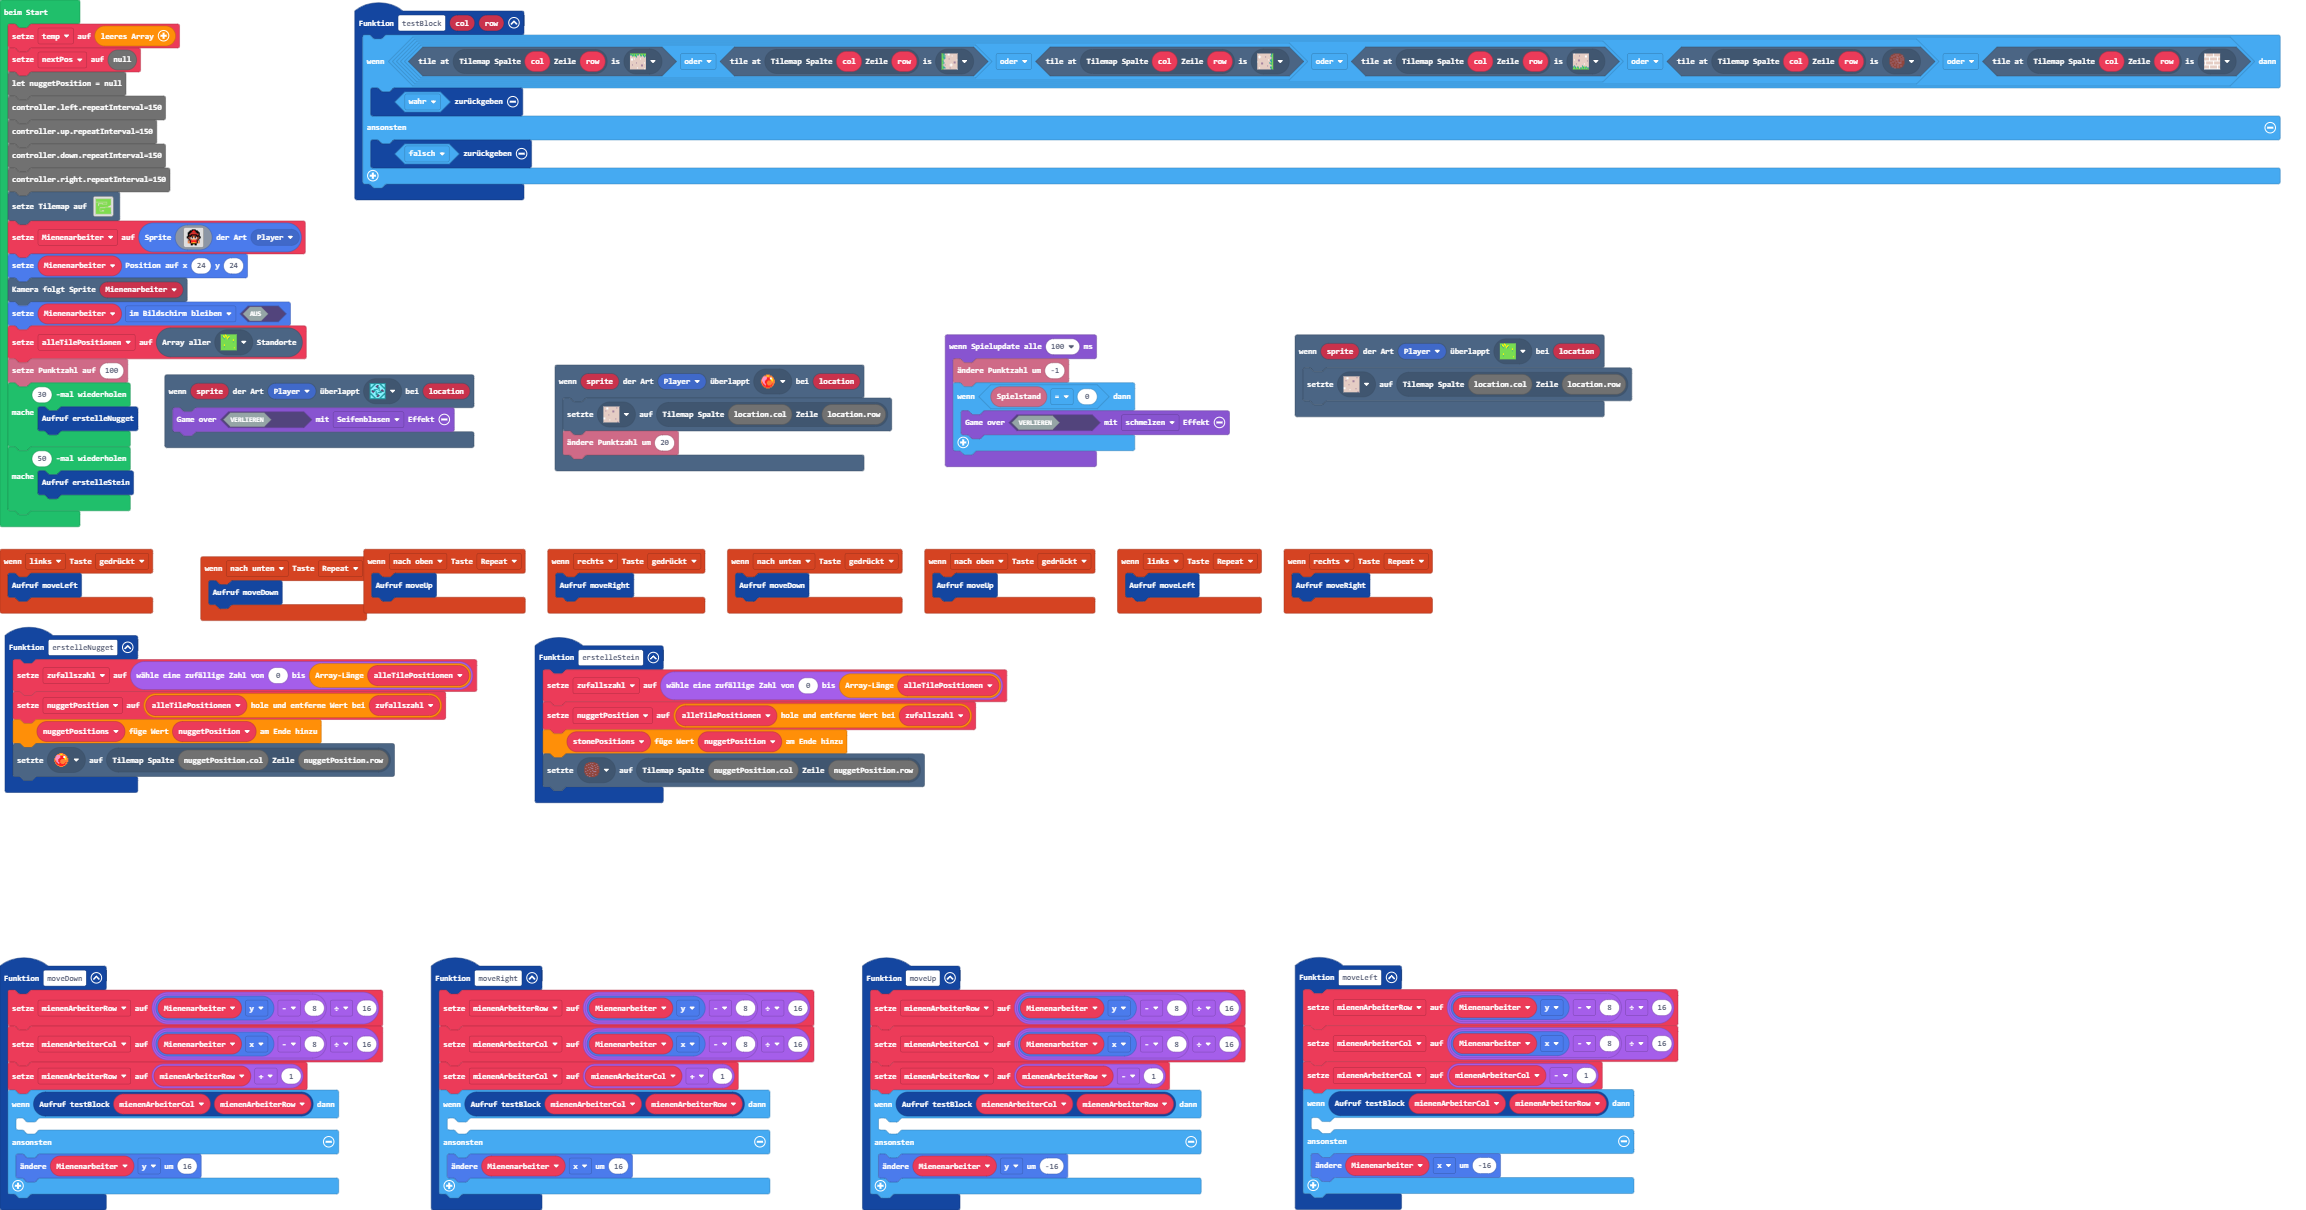
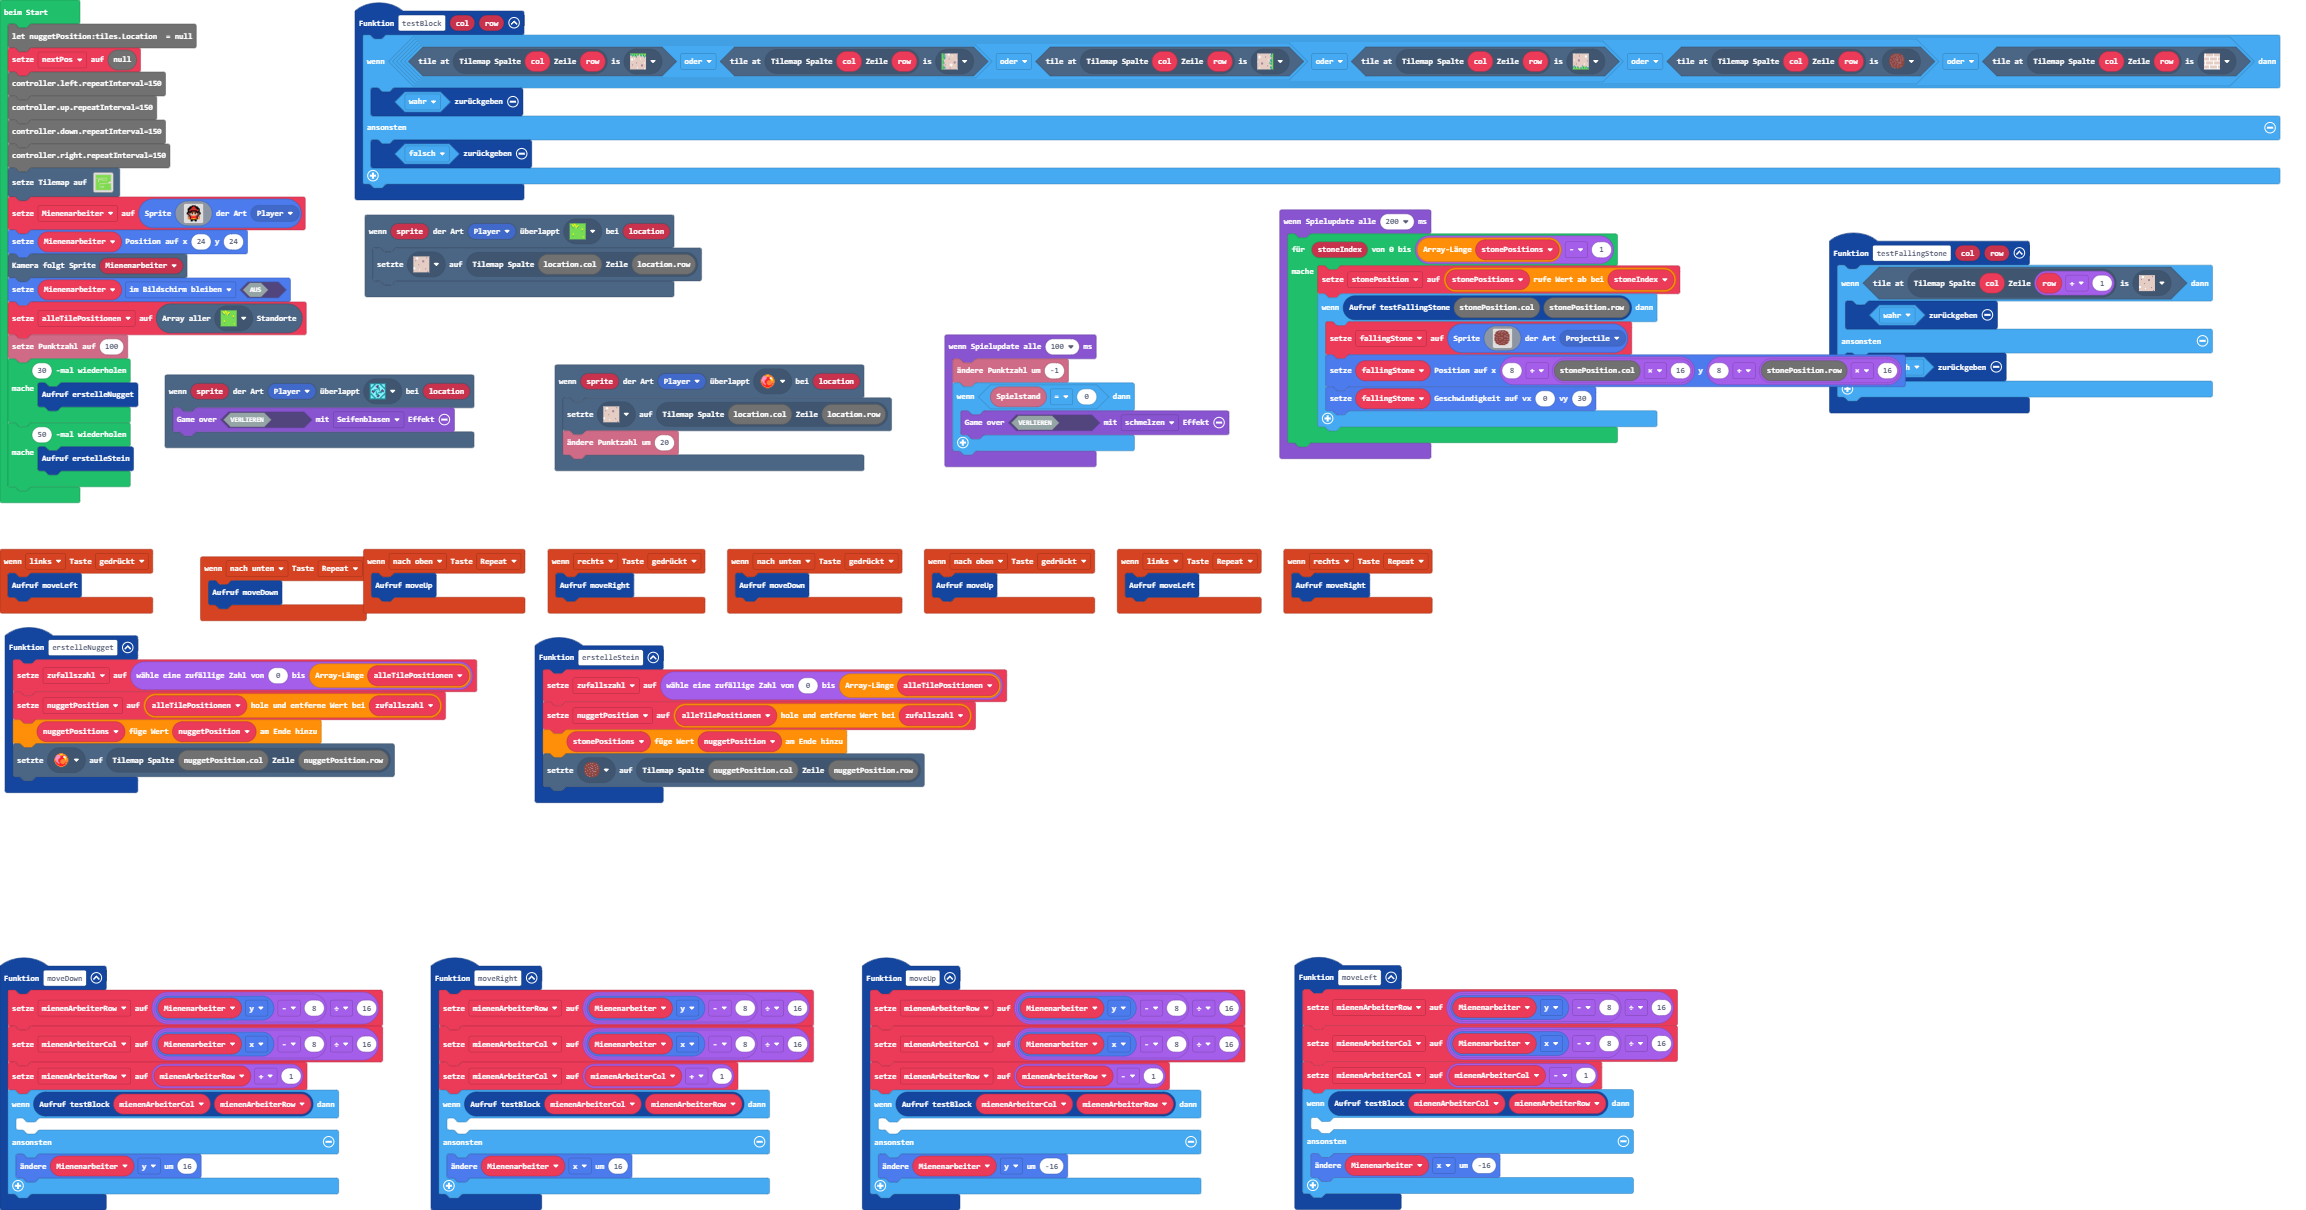
Added falling blocks

Changed region(s): [[0.5308, 0.1529, 0.9679, 0.3975], [0.0, 0.0, 0.3122, 0.4587], [0.562, 0.8868, 0.6557, 0.9174]]

diff --git a/main.ts b/main.ts
@@ -30,6 +30,13 @@ controller.up.onEvent(ControllerButtonEvent.Pressed, function () {
 controller.left.onEvent(ControllerButtonEvent.Pressed, function () {
     moveLeft()
 })
+function testFallingStone (col: number, row: number) {
+    if (tiles.tileAtLocationEquals(tiles.getTileLocation(col, row + 1), sprites.castle.tilePath5)) {
+        return true
+    } else {
+        return false
+    }
+}
 controller.up.onEvent(ControllerButtonEvent.Repeated, function () {
     moveUp()
 })
@@ -53,7 +60,6 @@ controller.left.onEvent(ControllerButtonEvent.Repeated, function () {
     moveLeft()
 })
 function erstelleStein () {
-    let stonePositions: tiles.Location[] = []
     zufallszahl = randint(0, alleTilePositionen.length)
     nuggetPosition = alleTilePositionen.removeAt(zufallszahl)
     stonePositions.push(nuggetPosition)
@@ -96,14 +102,17 @@ function moveLeft () {
 scene.onOverlapTile(SpriteKind.Player, sprites.dungeon.collectibleInsignia, function (sprite, location) {
     game.over(false, effects.bubbles)
 })
+let fallingStone: Sprite = null
+let stonePosition: tiles.Location = null
+let stonePositions: tiles.Location[] = []
+let fallingStones: Sprite[]=[]
 let zufallszahl = 0
 let mienenArbeiterCol = 0
 let mienenArbeiterRow = 0
 let alleTilePositionen: tiles.Location[] = []
 let Mienenarbeiter: Sprite = null
-let temp: number[] = []
+let nuggetPosition:tiles.Location  = null
 let nextPos = null
-let nuggetPosition = null
 controller.left.repeatInterval=150
 controller.up.repeatInterval=150
 controller.down.repeatInterval=150
@@ -142,5 +151,50 @@ game.onUpdateInterval(100, function () {
     info.changeScoreBy(-1)
     if (info.score() == 0) {
         game.over(false, effects.melt)
+    }
+})
+game.onUpdateInterval(200, function () {
+    for (let stoneIndex = 0; stoneIndex < stonePositions.length ; stoneIndex++) {
+        stonePosition = stonePositions[stoneIndex]
+        if (testFallingStone(stonePosition.col, stonePosition.row)) {
+            tiles.setTileAt(stonePosition, sprites.castle.tilePath5)
+            fallingStone = sprites.create(img`
+                . . . . e b e e e e e . . . . . 
+                . . e e e b e e b e e e e . . . 
+                . e e e b e e b e e b e e e . . 
+                . e e e e e e e e e e e e e . . 
+                e e b e e e e b e e e e b e e . 
+                e e e e b e e e e e b e e e e . 
+                b e e e e e e e e e b e b e e . 
+                e e b e e b e b e e e e e b e . 
+                e e e e e e e b e e e e e e e . 
+                e e b e e b e e e e b e e b e . 
+                e e e e e e e e e e e e e e e . 
+                . e e b e e e e e b e e b e . . 
+                . e e e e e e b e e e e e e . . 
+                . . e e e b e e e b e e e . . . 
+                . . . . e e e e e e e . . . . . 
+                . . . . . . . . . . . . . . . . 
+                `, SpriteKind.Projectile)
+            fallingStone.setPosition(8 + stonePosition.col * 16, 8 + stonePosition.row * 16)
+            fallingStone.setVelocity(0, 30)
+            stonePositions.removeAt(stoneIndex)
+            stoneIndex=stoneIndex-1
+            fallingStones.push(fallingStone)
+        }
+    }
+})
+
+game.onUpdate(function() {
+    for (let stoneIndex=0;stoneIndex<fallingStones.length;stoneIndex++)
+    {
+        fallingStone= fallingStones[stoneIndex]
+        if (tiles.tileAtLocationEquals(tiles.getTileLocation(fallingStone.x*16+8, fallingStone.y*16+8), sprites.castle.tileGrass1))
+        {
+            tiles.setTileAt(tiles.getTileLocation(fallingStone.x*16+8, fallingStone.y*16+8), myTiles.tile1)
+            fallingStones.removeAt(stoneIndex)
+            stoneIndex=stoneIndex-1
+            fallingStone.destroy()
+        }
     }
 })
